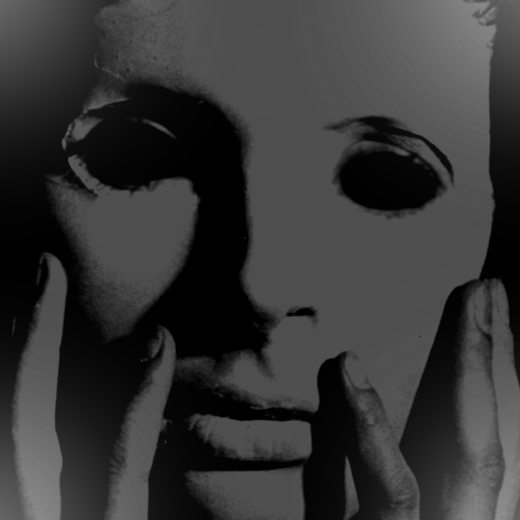
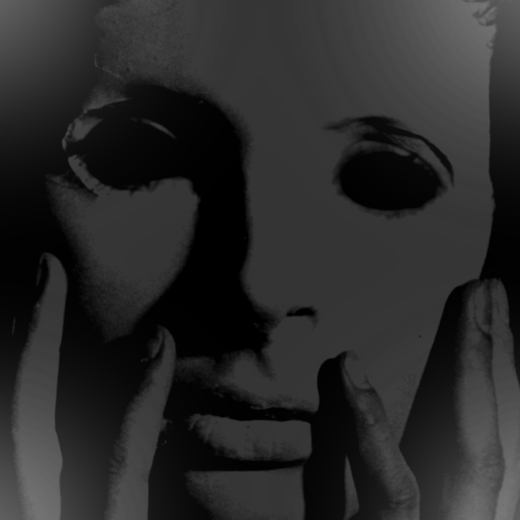
Fix rem.html accumulation; darken the dreamscape figure
rem.html: the old model capped each mousemove's contribution so tiny it
plateaued well below the trigger and read as "nothing happens". Rebuilt
frame-based: sum cursor distance per frame, convert to speed, add
(capped) minus a steady drain, hard-clamp 0..1 — sustained movement now
climbs to 1 in ~2s and stopping drains it back in ~2s. Also made the
feedback visible from low depth (brighter core bloom, brighter eye
field, less max blur) so movement clearly does something.

dreamscape: reprocessed ds-figure.png darker (L mean 41 -> 27) and
dropped the layer to opacity .4 / brightness .55 so the face sits
further back in the fog.

diff --git a/rem.html b/rem.html
@@ -8,13 +8,14 @@
 <style>
   html,body{margin:0;height:100%;overflow:hidden;background:#000;color:#7a7a7a;
     font-family:"Courier New",Courier,monospace;cursor:default;touch-action:none}
-  #veil{position:fixed;inset:0;overflow:hidden;opacity:0;filter:blur(9px);
+  #veil{position:fixed;inset:0;overflow:hidden;opacity:0;filter:blur(6px);
     will-change:opacity,filter}
   #veil img{position:absolute;pointer-events:none}
-  #core{position:fixed;left:50%;top:50%;width:40vmin;height:40vmin;transform:translate(-50%,-50%) scale(.6);
-    background:radial-gradient(closest-side,rgba(150,150,160,.14),transparent 70%);
+  #core{position:fixed;left:50%;top:50%;width:52vmin;height:52vmin;
+    transform:translate(-50%,-50%) scale(.55);
+    background:radial-gradient(closest-side,rgba(150,152,164,.30),rgba(120,124,140,.08) 45%,transparent 72%);
     opacity:0;will-change:opacity,transform}
-  #flare{position:fixed;inset:0;background:#0b0b0d;opacity:0;pointer-events:none}
+  #flare{position:fixed;inset:0;background:#0b0b0d;opacity:0;pointer-events:none;transition:opacity 1.1s ease}
   .buried{position:fixed;left:4px;bottom:2px;color:#0a0a0a;font-size:10px;letter-spacing:1px}
   .buried::selection{background:#2a2a30;color:#000}
 </style>
@@ -23,20 +24,19 @@
   <div id="veil"></div>
   <div id="core"></div>
   <div id="flare"></div>
-  <span class="buried">keep them moving.</span>
+  <span class="buried">rapid eye movement. keep them going.</span>
 
-<!-- rapid eye movement. no scrolling here. move, and do not stop, and it takes you under. -->
+<!-- no scrolling. move the cursor and do not stop; it takes a few seconds of unbroken
+     movement to go under. stop and it drains back. -->
 <script>
 (function(){
   var veil = document.getElementById('veil'),
       core = document.getElementById('core'),
       flare = document.getElementById('flare');
 
-  // faint eye field, revealed by depth
   var im = new Image();
   im.onload = function(){
-    var vw = innerWidth, vh = innerHeight;
-    var n = Math.max(50, Math.min(180, Math.round(vw*vh/12000)));
+    var n = Math.max(50, Math.min(170, Math.round(innerWidth*innerHeight/13000)));
     for(var i=0;i<n;i++){
       var e = document.createElement('img');
       e.src = 'img/eyes.png';
@@ -44,48 +44,50 @@
       e.style.top = (Math.random()*100)+'%';
       e.style.width = (50 + Math.random()*200)+'px';
       e.style.transform = 'translate(-50%,-50%) rotate('+(Math.random()*360)+'deg)';
-      e.style.filter = 'brightness('+(0.05 + Math.random()*0.12).toFixed(3)+')';
-      e.style.opacity = (0.14 + Math.random()*0.3).toFixed(3);
+      e.style.filter = 'brightness('+(0.08 + Math.random()*0.16).toFixed(3)+')';
+      e.style.opacity = (0.28 + Math.random()*0.42).toFixed(3);
       veil.appendChild(e);
     }
   };
   im.src = 'img/eyes.png';
 
-  var depth = 0, lastX = null, lastY = null, lastT = performance.now(), going = false;
+  var depth = 0, movedDist = 0, lastX = null, lastY = null, lastT = performance.now(), going = false;
 
   function move(x, y){
-    var now = performance.now(), dt = Math.max(12, now - lastT); lastT = now;
-    if(lastX !== null){
-      var d = Math.sqrt((x-lastX)*(x-lastX) + (y-lastY)*(y-lastY));
-      depth += Math.min(0.004, (d / dt) * 0.002);   // needs a few seconds of not stopping
-    }
+    if(lastX !== null) movedDist += Math.sqrt((x-lastX)*(x-lastX) + (y-lastY)*(y-lastY));
     lastX = x; lastY = y;
   }
   window.addEventListener('mousemove', function(e){ move(e.clientX, e.clientY); }, {passive:true});
+  window.addEventListener('pointermove', function(e){ move(e.clientX, e.clientY); }, {passive:true});
   window.addEventListener('touchmove', function(e){ if(e.touches[0]) move(e.touches[0].clientX, e.touches[0].clientY); }, {passive:true});
   window.addEventListener('touchstart', function(e){ if(e.touches[0]){ lastX = e.touches[0].clientX; lastY = e.touches[0].clientY; } }, {passive:true});
 
   function leave(){
     going = true;
-    flare.style.transition = 'opacity 1.1s ease';
     flare.style.opacity = '1';
     setTimeout(function(){ location.href = 'dreamscape.html'; }, 1150);
   }
 
-  (function tick(){
+  (function tick(now){
     if(!going){
-      depth *= 0.99;                 // stop moving and it drains
-      if(depth < 0.0003) depth = 0;
-      depth = Math.min(1.05, depth);
-      var d = depth > 1 ? 1 : depth;
-      veil.style.opacity = d.toFixed(3);
-      veil.style.filter = 'blur(' + ((1-d)*9).toFixed(2) + 'px)';
-      core.style.opacity = (d*0.9).toFixed(3);
-      core.style.transform = 'translate(-50%,-50%) scale(' + (0.6 + d*0.7).toFixed(3) + ')';
-      if(depth >= 1) leave();
+      var dt = Math.max(8, now - lastT); lastT = now;
+      var speed = movedDist / dt;               // px per ms this frame
+      movedDist = 0;
+      // fast, unbroken movement climbs; anything less drains
+      depth += Math.min(0.020, speed * 0.010) - 0.010;
+      if(depth < 0) depth = 0;
+      if(depth > 1) depth = 1;
+
+      var d = depth;
+      veil.style.opacity = Math.min(1, d * 1.7).toFixed(3);
+      veil.style.filter  = 'blur(' + ((1 - d) * 6).toFixed(2) + 'px)';
+      core.style.opacity = Math.min(0.95, d * 1.6).toFixed(3);
+      core.style.transform = 'translate(-50%,-50%) scale(' + (0.55 + d * 0.85).toFixed(3) + ')';
+
+      if(d >= 1) leave();
     }
     requestAnimationFrame(tick);
-  })();
+  })(performance.now());
 })();
 </script>
 </body>

diff --git a/dreamscape.html b/dreamscape.html
@@ -51,8 +51,8 @@
   /* the face in the fog — darkened, warped, mixed in */
   .figure{position:absolute;left:50%;top:47%;width:46vmin;height:46vmin;transform:translate(-50%,-50%);
     background:url("img/tex/ds-figure.png") center/contain no-repeat;
-    filter:url(#warp) blur(1.6px) brightness(.72) contrast(1.05);
-    mix-blend-mode:screen;opacity:.55;animation:breathe 21s ease-in-out infinite alternate}
+    filter:url(#warp) blur(2px) brightness(.55) contrast(1.05);
+    mix-blend-mode:screen;opacity:.4;animation:breathe 21s ease-in-out infinite alternate}
   @keyframes breathe{0%{transform:translate(-50%,-50%) scale(1) skewX(-.6deg)}
     100%{transform:translate(-50%,-51%) scale(1.03) skewX(.5deg)}}
 
